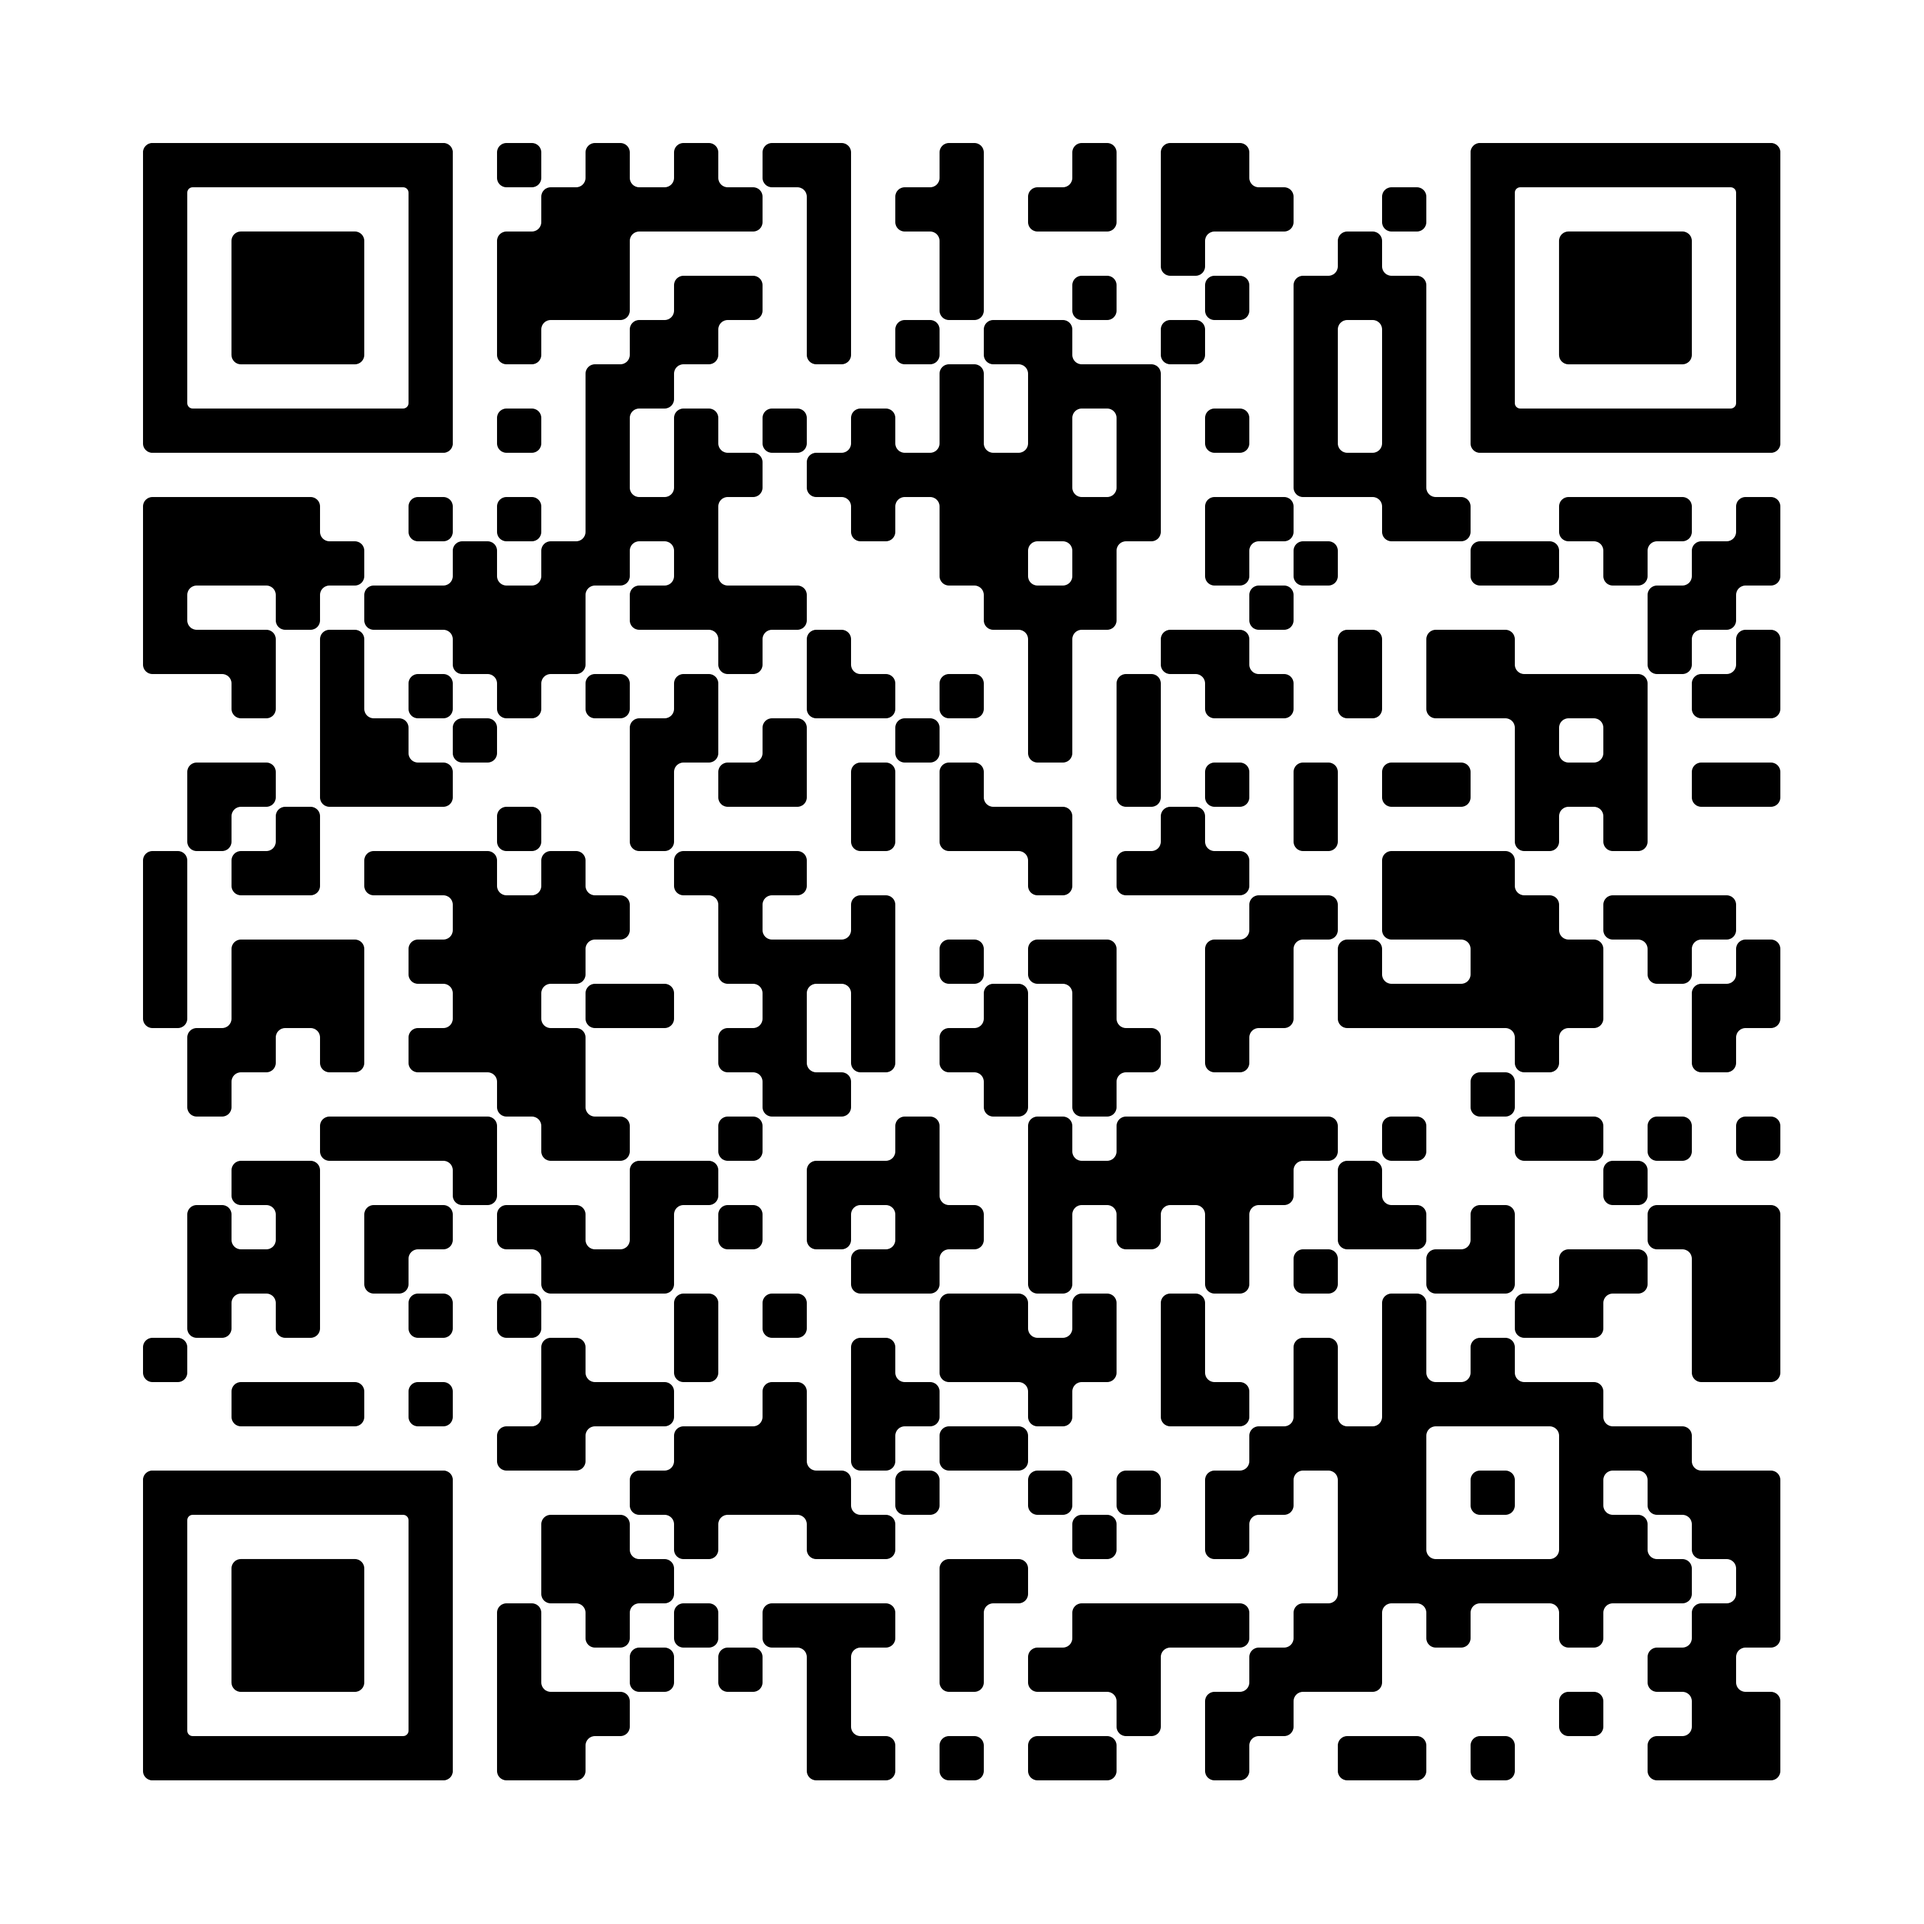
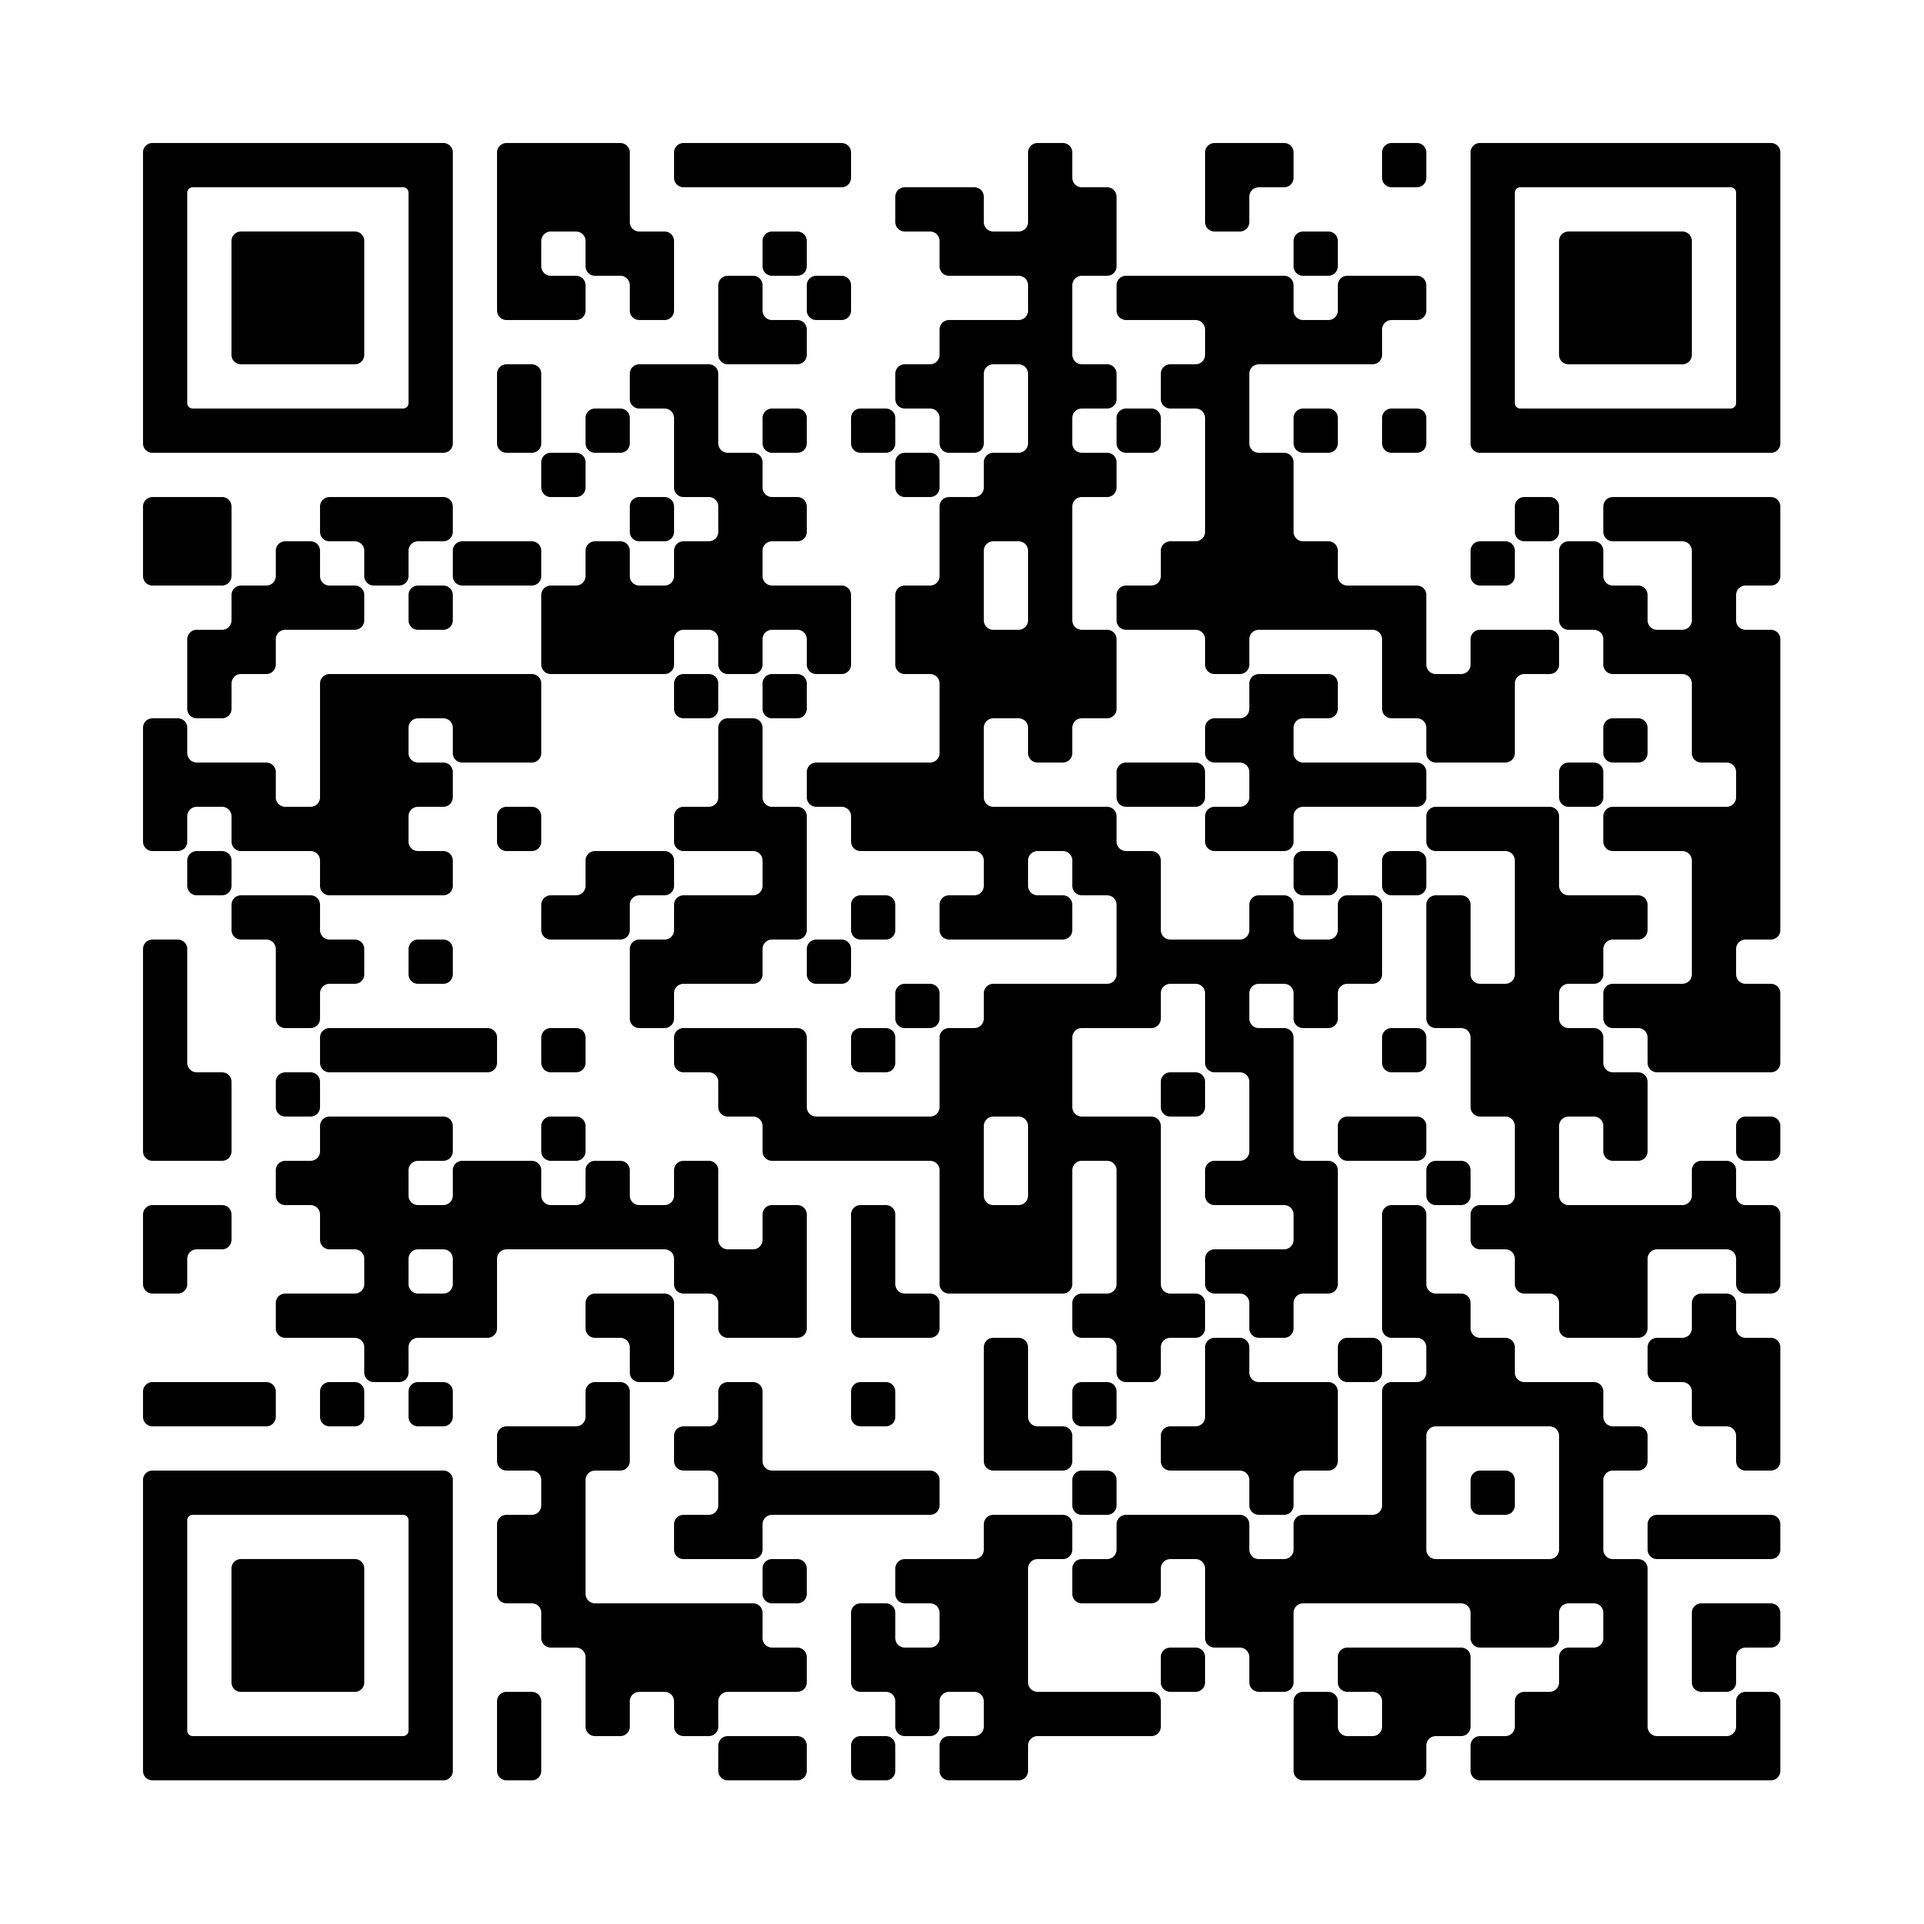
Update factory names in QR code info and replace corresponding images

Changed region(s): [[0.062, 0.062, 0.93, 0.93]]

diff --git a/src/App.jsx b/src/App.jsx
@@ -17,7 +17,7 @@ function App() {
       qrImage: qrCode1,
       infoQR: `Nama produk: Produk A <br>
 Masa berlaku: 23 Januari 2026 <br>
-Nama Pabrik: PT A <br>
+Nama Pabrik: PT X <br>
 Alamat Pabrik: Surabaya`
     },
     {
@@ -26,7 +26,7 @@ Alamat Pabrik: Surabaya`
       qrImage: qrCode2,
       infoQR: `Nama produk: Produk B <br>
 Masa berlaku: 13 Januari 2027 <br>
-Nama Pabrik: PT B <br>
+Nama Pabrik: PT X <br>
 Alamat Pabrik: Bekasi`
     },
     {
@@ -35,7 +35,7 @@ Alamat Pabrik: Bekasi`
       qrImage: qrCode3,
       infoQR: `Nama produk: Produk C <br>
 Masa berlaku: 21 Januari 2027 <br>
-Nama Pabrik: PT C <br>
+Nama Pabrik: PT X <br>
 Alamat Pabrik: Medan`
     }
   ];
